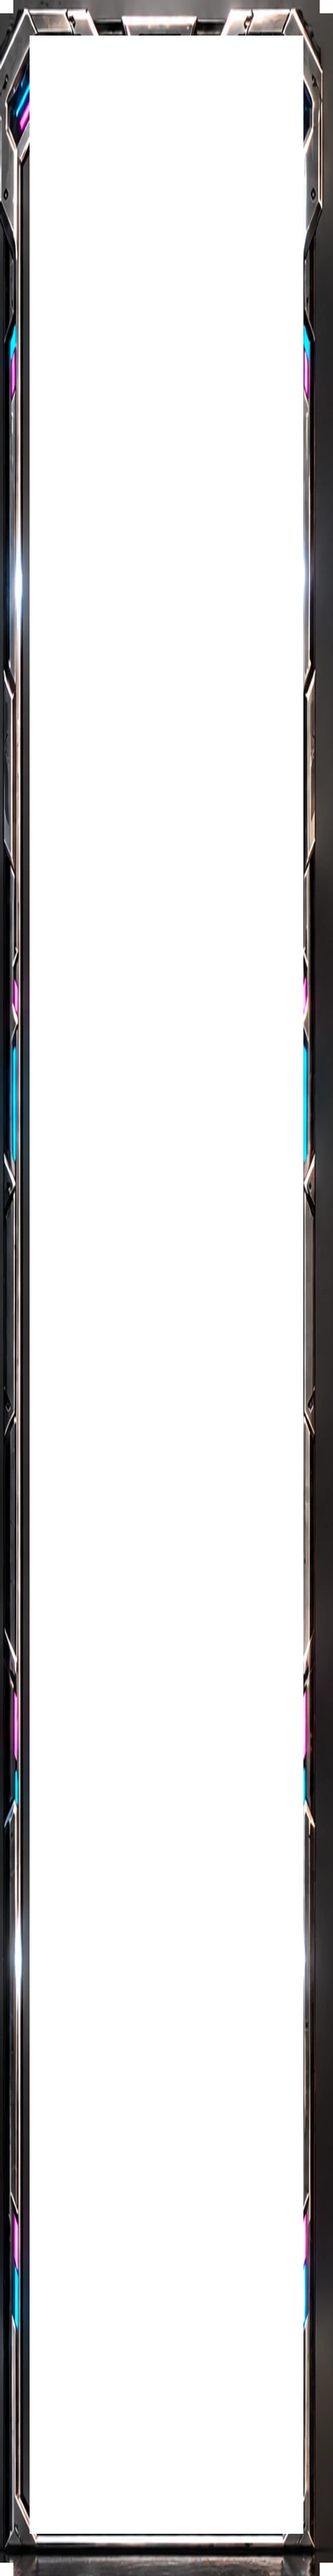
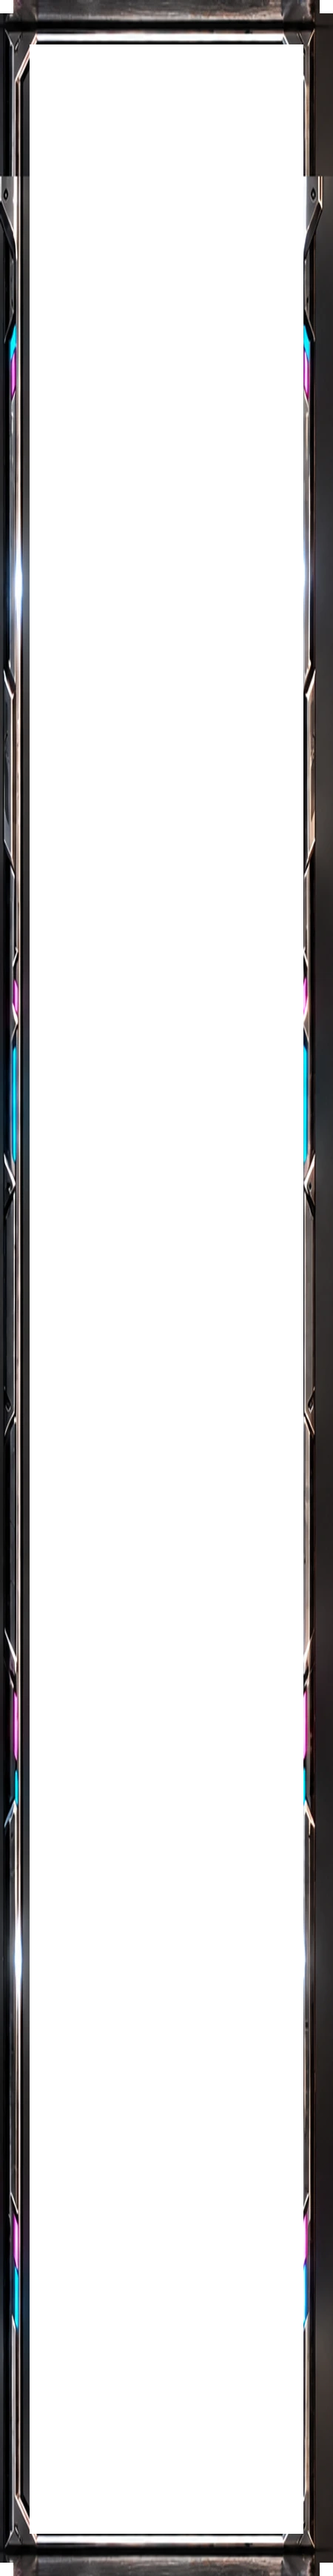
feat: unify selected gate cap design

Changed region(s): [[0.0, 0.0, 1.0, 0.0932]]

diff --git a/PROJECT-STATUS.md b/PROJECT-STATUS.md
@@ -1429,3 +1429,9 @@ PR: https://github.com/overvivi/vivigames/pull/1
 - 選択枠は中央装飾が原画上`0〜51px`まで深く張り出し、通常枠と同じ透明窓上端では背景の前に黒い帯が残った。選択枠だけ透明窓を原画`20〜1440px`相当へ広げた
 - 張り出しの内側は背景が通り、上端は細い金属ラインだけが残る。下端と同じく背景が途中で止まらない、簡素な選択枠にした
 - 型チェック・Remaster公開用ビルド・ルート`npm run verify`成功。公開はユーザーの明示`push`待ち
+
+### 2026-08-29 — Codex（Remaster：選択枠の上端を下端と統一）
+
+- 上端の張り出し内側だけを抜く案は形が中途半端だったため不採用。選択枠の下端で採用済みの簡素な敷居を反転して上端へ再構成した
+- 中央の大きな張り出しを廃止し、上端も下端と同じ細い金属ラインだけに統一。背景が上端で止まらず、選択時だけ装飾が過剰にならない
+- 型チェック・Remaster公開用ビルド・ルート`npm run verify`成功。公開はユーザーの明示`push`待ち
